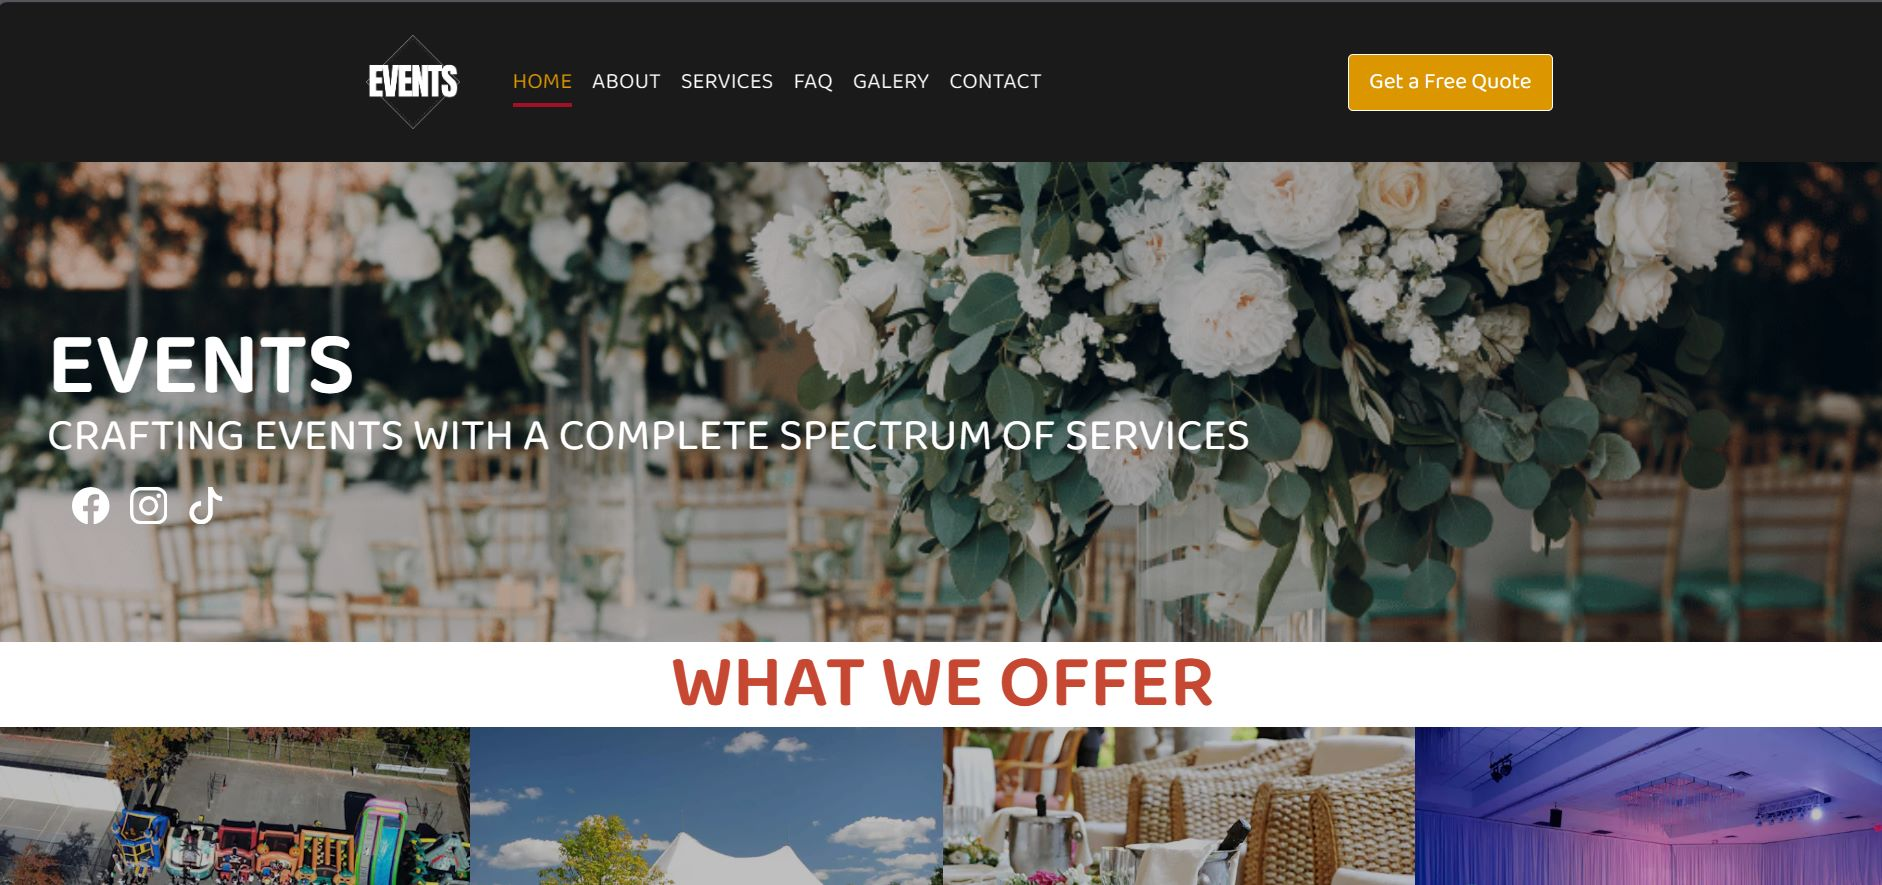
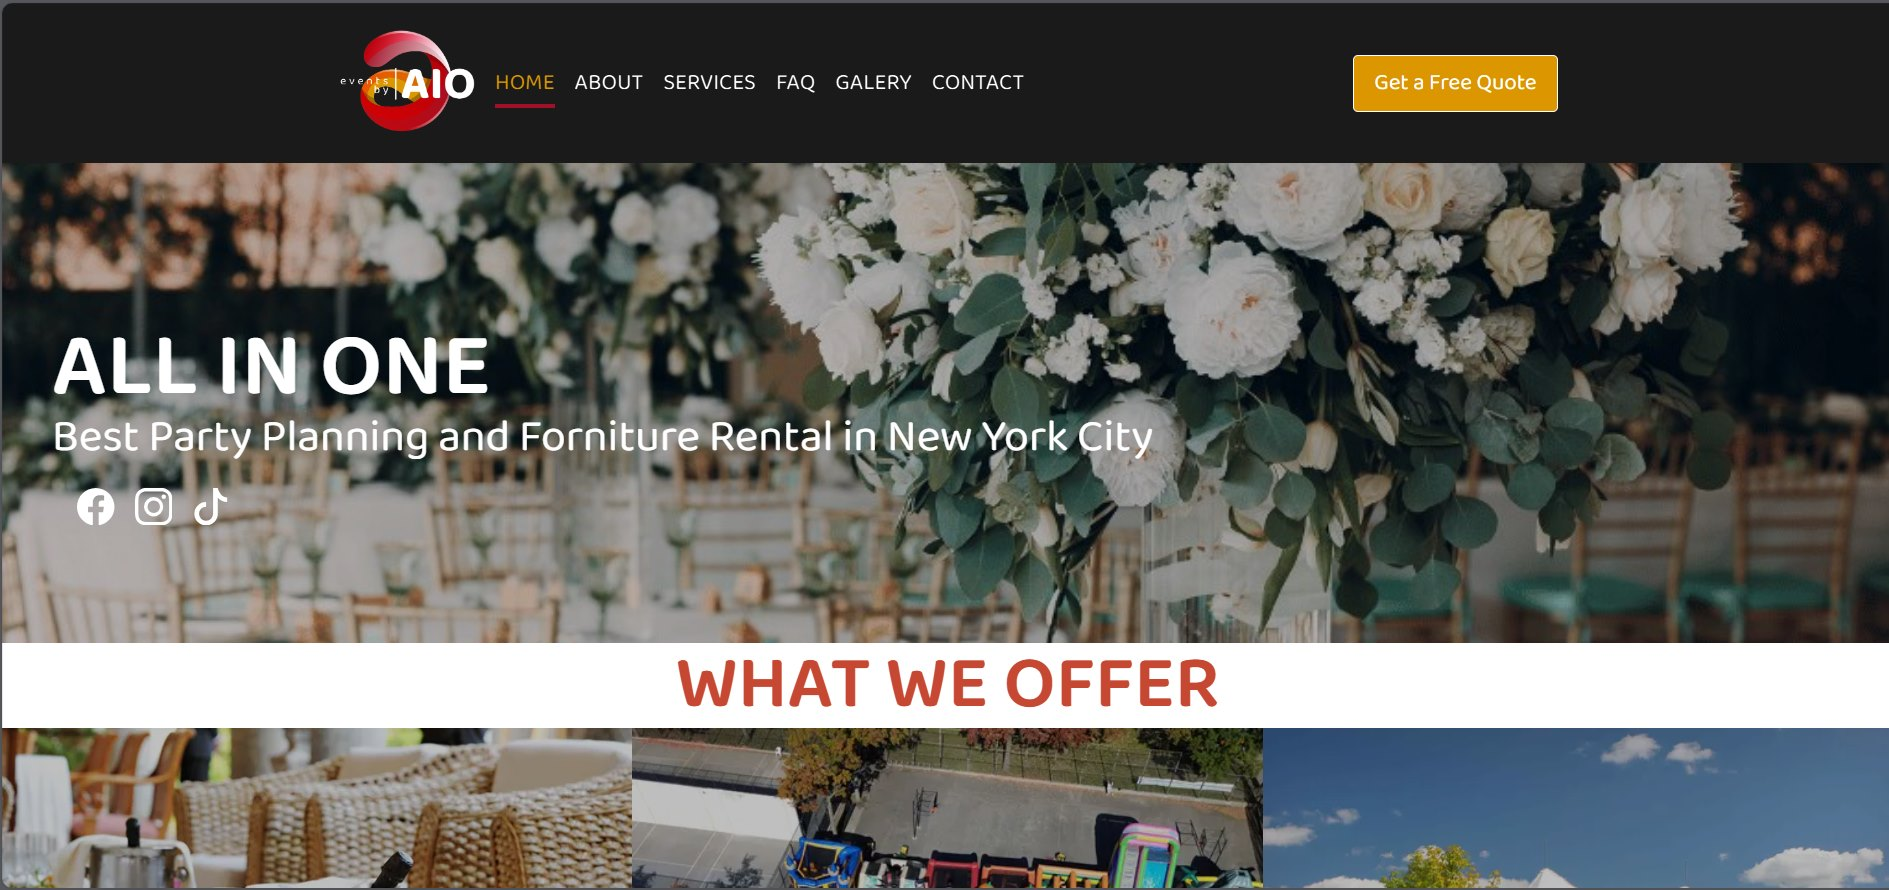
Update projects

diff --git a/src/app/data.ts b/src/app/data.ts
@@ -1,12 +1,21 @@
 const projects = [
   {
-    name: 'Freelance - Static Website',
+    name: 'Freelance - Events Website',
     description:
       'As a freelance web developer, I was hired to create this static website for a company providing assistance for private events.',
     paragraph: `This static website showcases the services offered by a company that provides assistance for private events. The website includes a homepage, about page, services page, and contact page. It also features a responsive design, ensuring a seamless experience across various devices.`,
     image: '/events.jpg',
     techs: ['React', 'Next.js', 'TypeScript', 'Tailwind', 'Redux'],
-    live: 'https://eventswebsite.vercel.app/',
+    live: 'https://partyeventsbyaio.com/',
+  },
+  {
+    name: 'Freelance - Furniture Website',
+    description:
+      'As a freelance web developer, I was hired to create this static website for a company that sells wood furniture.',
+    paragraph: `This static website showcases the products offered by a company that sells wood furniture. The website includes a homepage, about page, and product pages. It also features a responsive design, ensuring a seamless experience across various devices.`,
+    image: '/furniture.png',
+    techs: ['React', 'Vite', 'TypeScript', 'Tailwind', 'CSS'],
+    live: 'https://cinco-estrellas.netlify.app/',
   },
   {
     name: 'Bakery E-commerce Website',
@@ -60,17 +69,6 @@ const projects = [
     techs: ['Vite', 'TypeScript', 'Bootstrap', 'SCCS'],
     live: 'https://knowyourchinesezodiacanimal.netlify.app/',
     repo: 'https://github.com/PabloEGonz/chineseZodiac',
-  },
-  {
-    name: 'Calculator Web App',
-    description:
-      'This is a calculator web application that uses an API to display quotes.',
-    paragraph:
-      'Math Magicians is a web app designed using React, the calculator offers a clean and intuitive interface. It supports basic arithmetic operations such as addition, subtraction, multiplication, and division, allowing users to perform calculations with ease. Additionally, the calculator incorporates responsive design principles, ensuring a seamless experience across various.',
-    image: '/calculator.png',
-    techs: ['React', 'JSX', 'Bootstrap', 'CSS3'],
-    live: 'https://pabloegonz.github.io/math-magicians/',
-    repo: 'https://github.com/PabloEGonz/math-magicians',
   },
   {
     name: 'December Countdown',
